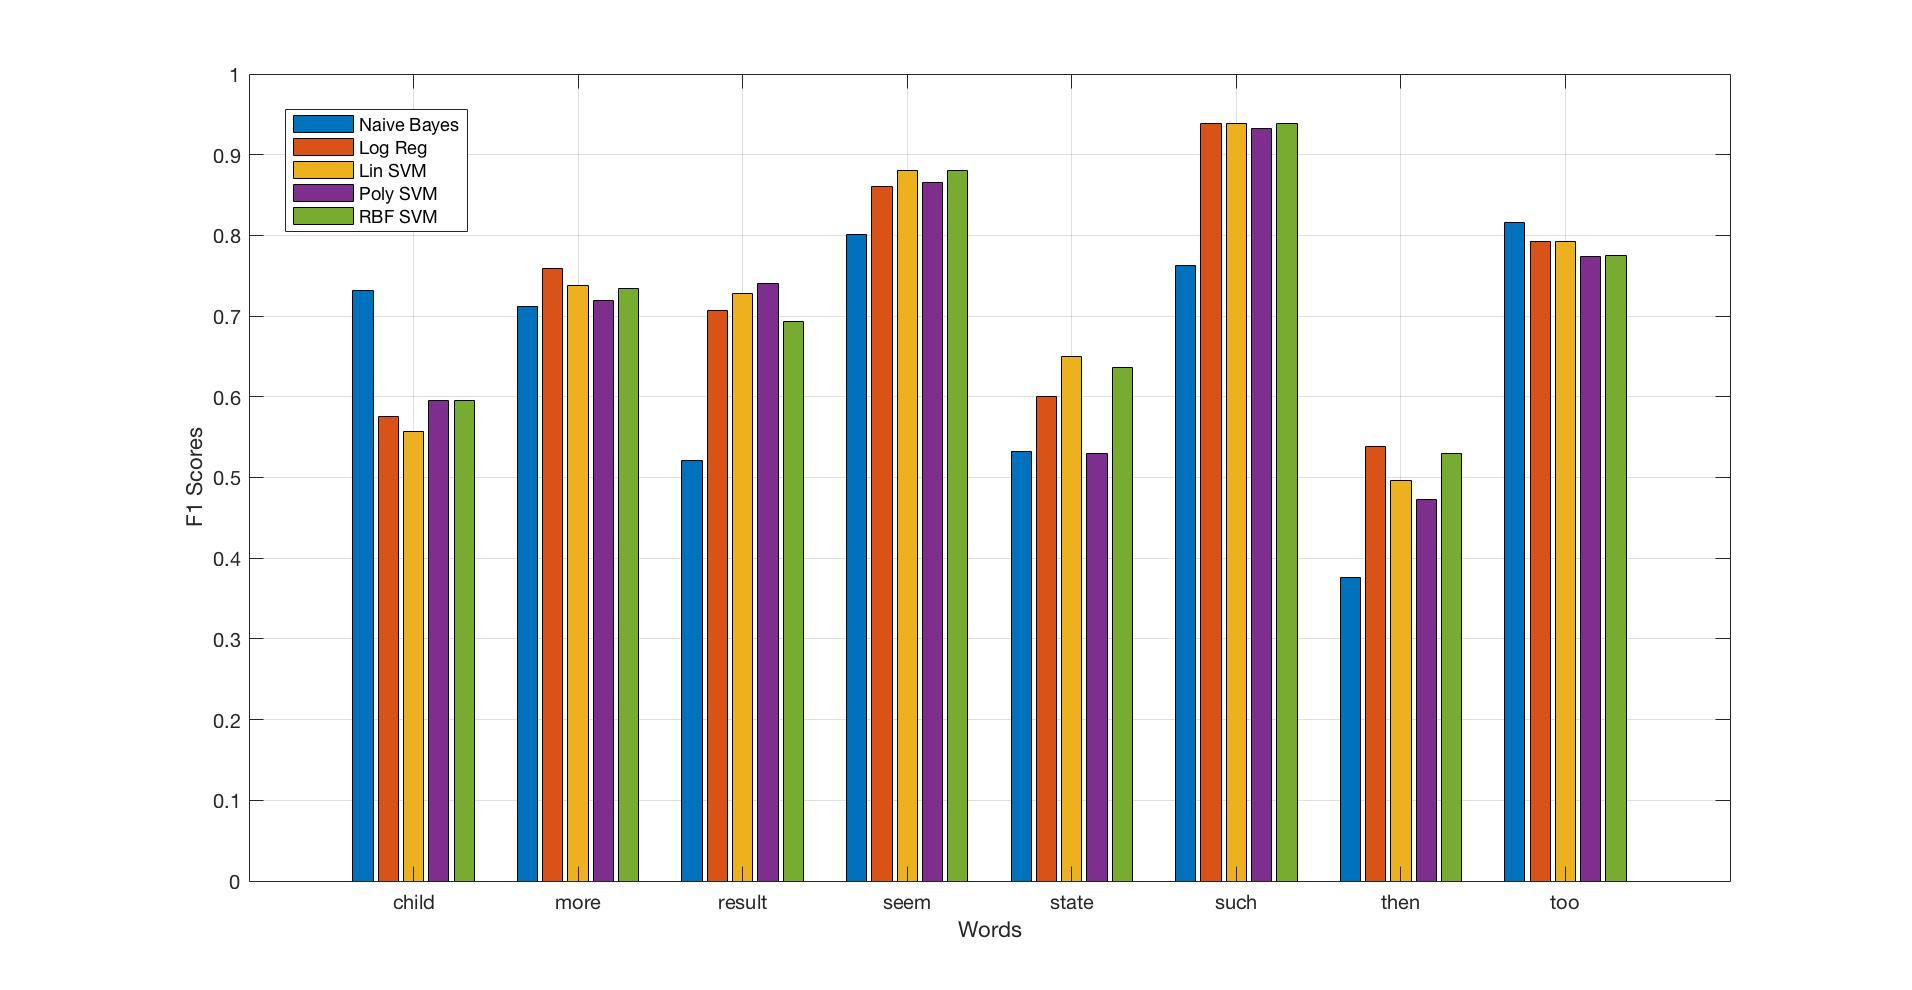
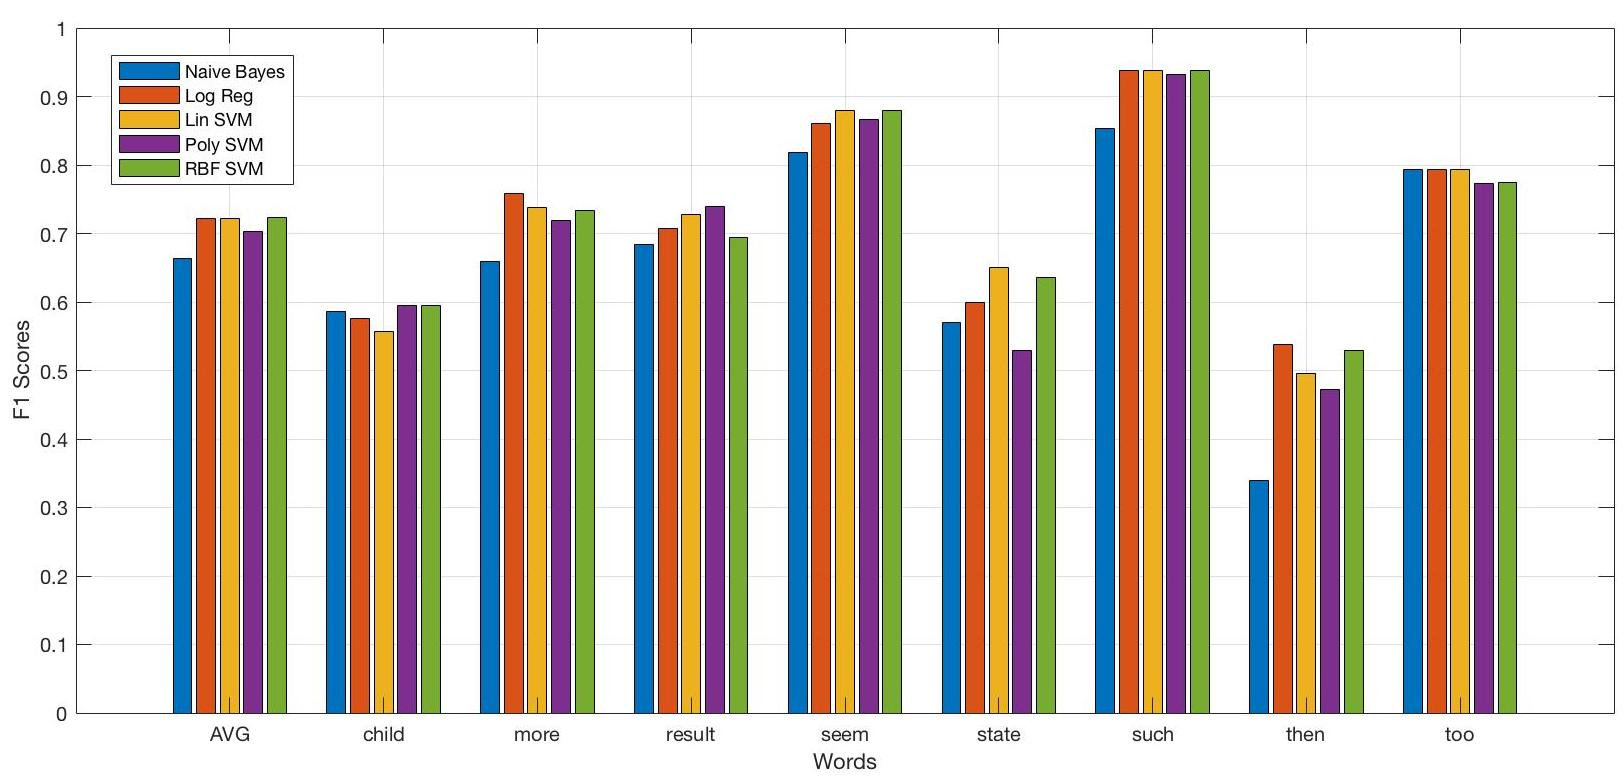
[plots] Update result plots.

diff --git a/report/results.tex b/report/results.tex
@@ -54,12 +54,19 @@ the dataset.
 That is, we first calculate F1 scores for each class, and then average them,
 weighted by the number of each class in the test set.
 
-\begin{figure}[h]
-  \centering 
-  \includegraphics[width=0.7\textwidth]{plots/f1.jpg}
-    \caption{Weighted F1 scores on each words}
+\begin{figure*}[t!]
+    \centering
+  \begin{subfigure}[t]{0.68\textwidth}
+    \includegraphics[width=\textwidth]{plots/f1.jpg}
+    \caption{Weighted F1 scores on small-scale dataset}
     \label{fig:results:f1}
-\end{figure}
+\end{subfigure}
+  \begin{subfigure}[t]{0.3\textwidth}
+    \includegraphics[width=\textwidth]{plots/f1_large.jpg}
+    \caption{on larger dataset}
+    \label{fig:results:f1}
+\end{subfigure}
+\end{figure*}
 
 Figure~\ref{fig:results:f1} shows the F1 socres for each classifer,
 on each ambiguous word.

diff --git a/report/report.tex b/report/report.tex
@@ -17,6 +17,7 @@
 \usepackage{wrapfig}
 \usepackage{titlesec}
 %\usepackage{algorithm,algorithmic}
+\usepackage{subcaption}
 
 %---------- Spacing ----------
 \setlength{\parindent}{0pt}
